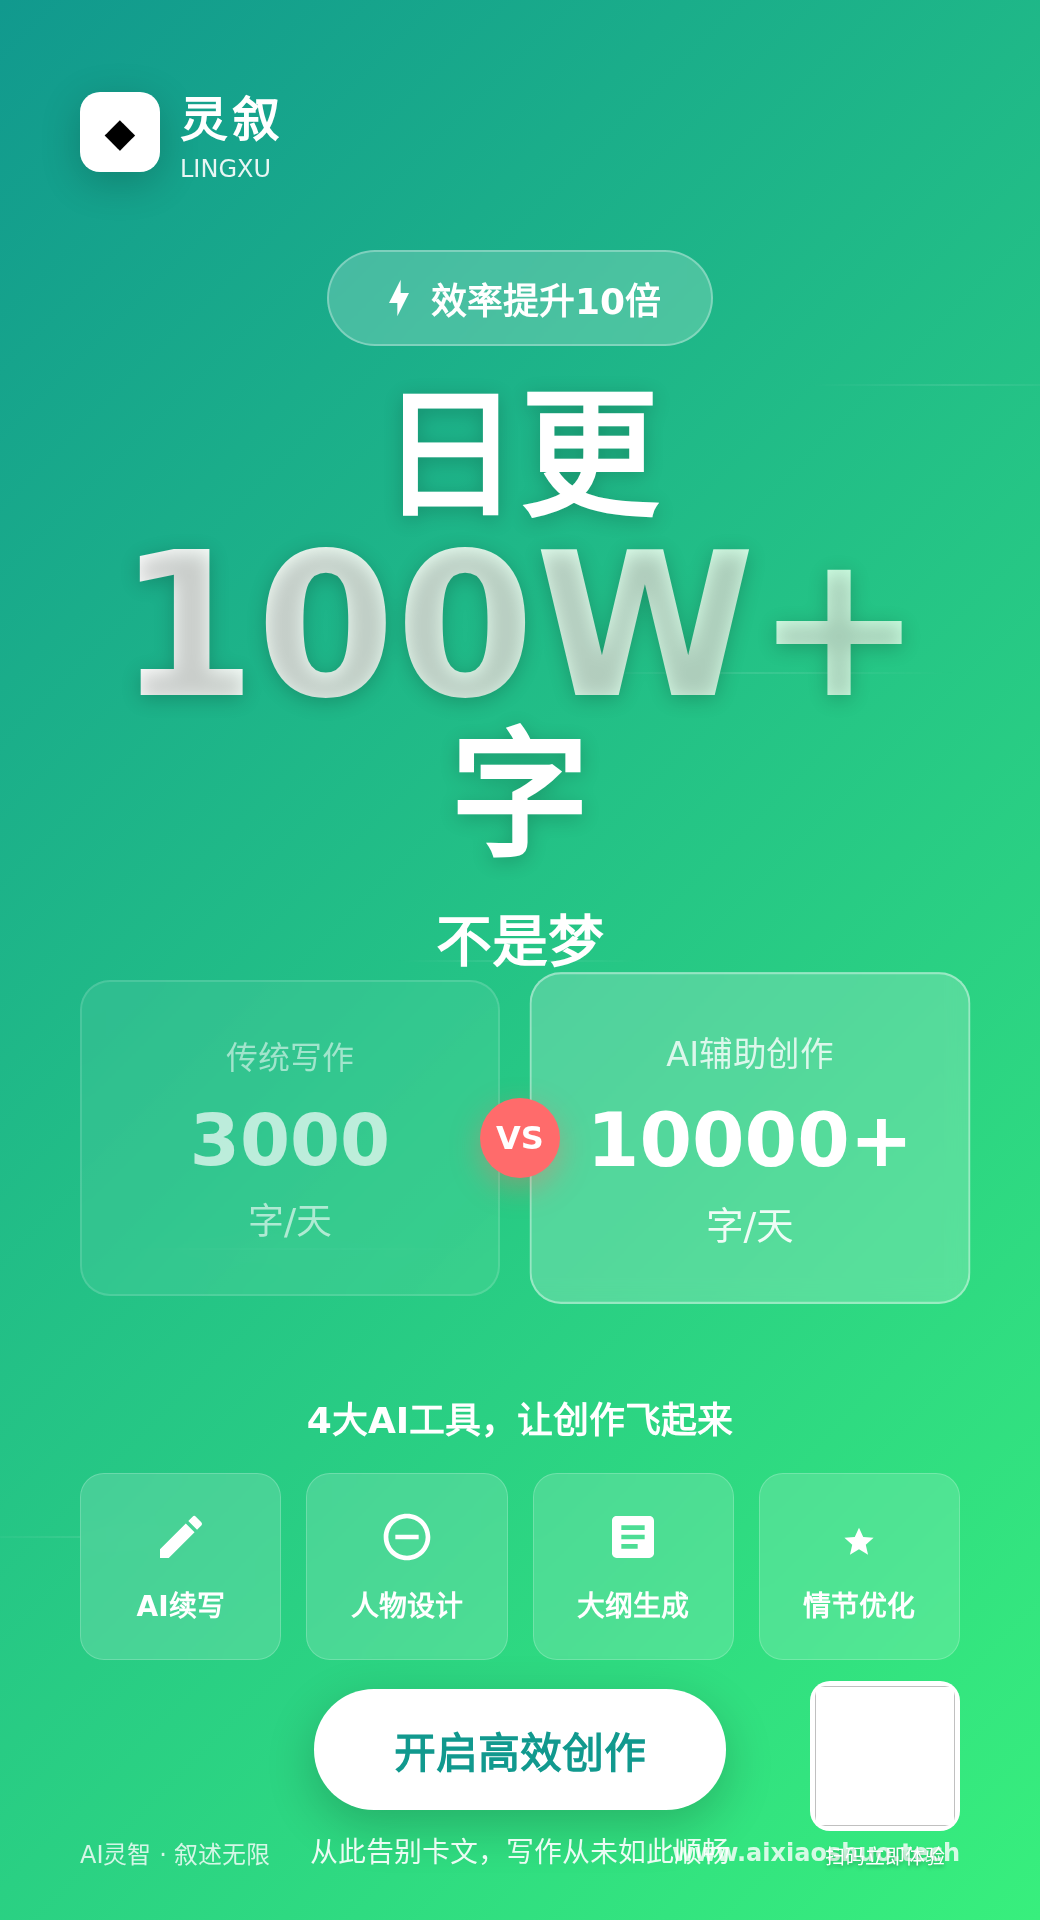
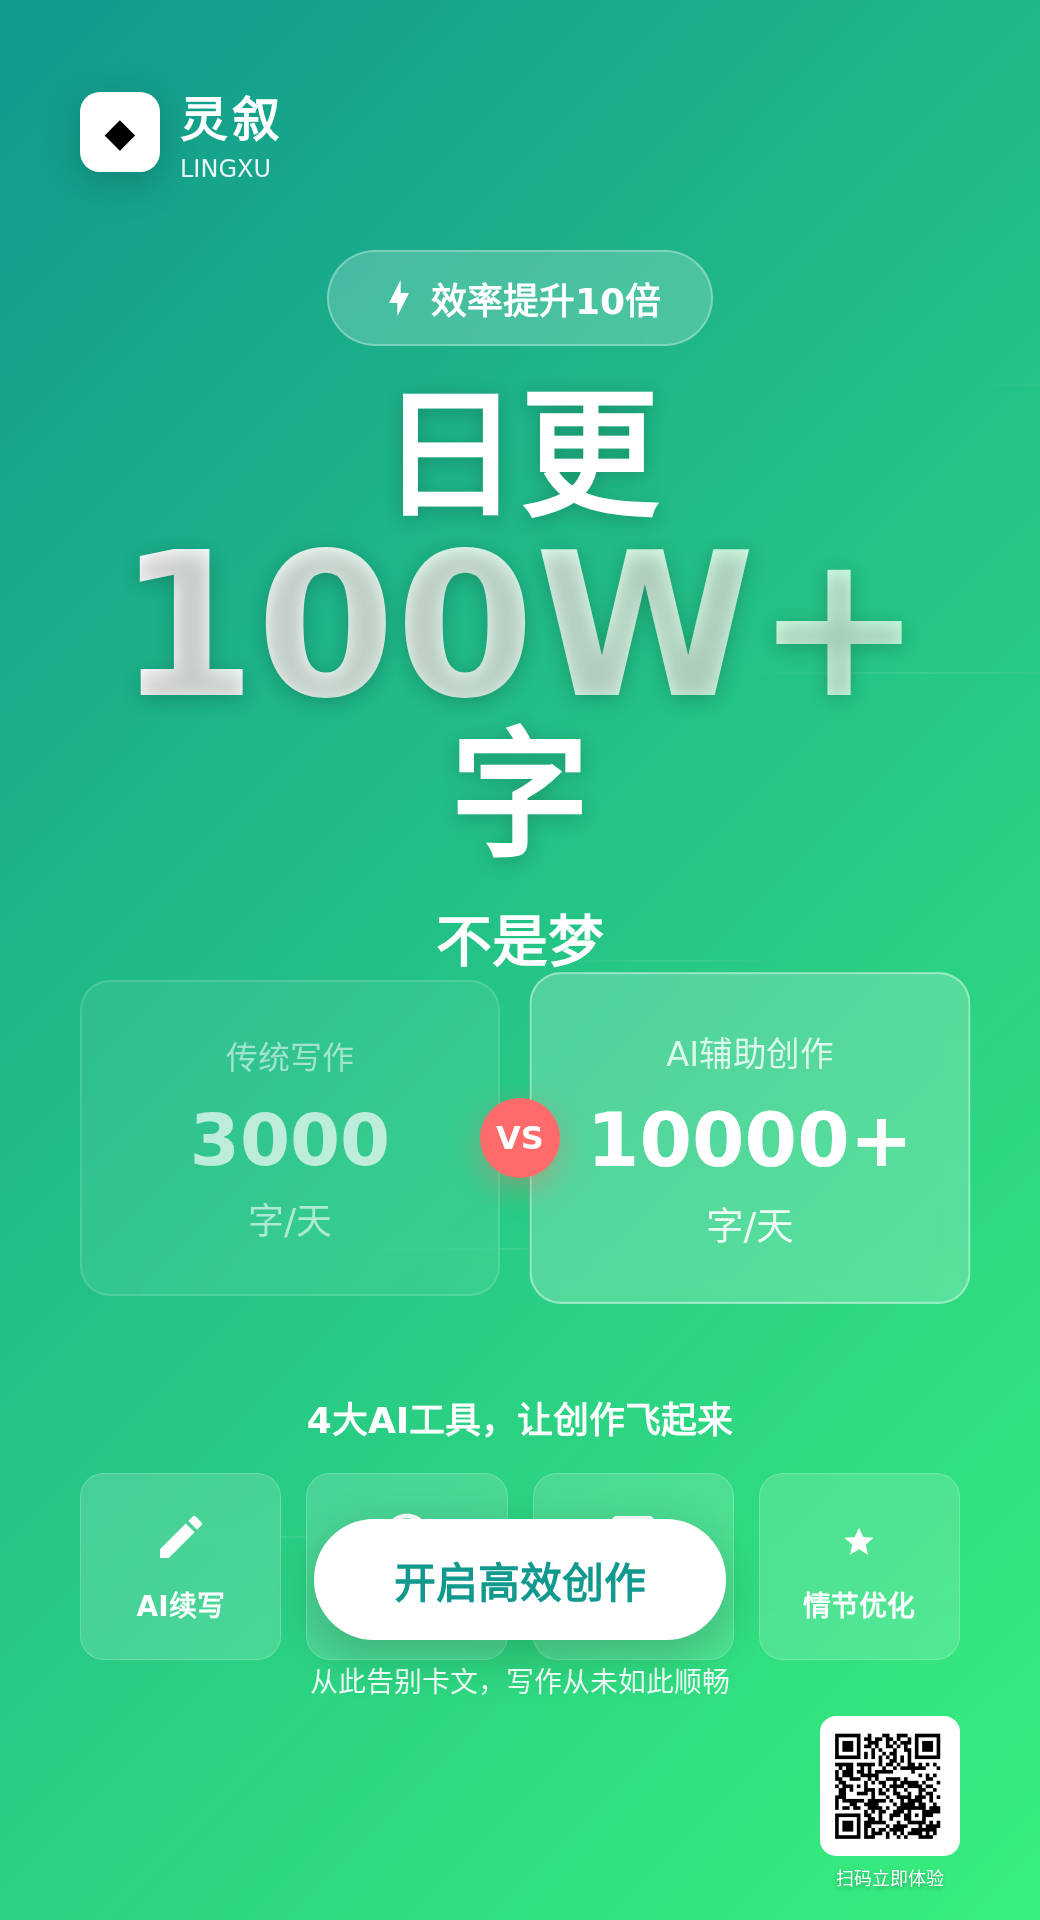
fix(poster): 修复底部布局 - 删除重叠footer，更新二维码路径

Changed region(s): [[0.2769, 0.7812, 0.9231, 1.0], [0.1846, 0.9375, 0.2462, 0.9688], [0.0923, 0.9375, 0.1538, 0.9688]]

diff --git a/assets/posters/poster-2-efficiency.html b/assets/posters/poster-2-efficiency.html
@@ -248,7 +248,7 @@
         
         .cta-section {
             position: absolute;
-            bottom: 50px;
+            bottom: 220px;
             left: 80px;
             right: 80px;
             text-align: center;
@@ -275,18 +275,42 @@
         
         .footer {
             position: absolute;
-            bottom: 50px;
+            bottom: 40px;
             left: 80px;
-            right: 80px;
-            display: flex;
-            justify-content: space-between;
-            align-items: center;
             color: rgba(255,255,255,0.8);
             font-size: 24px;
         }
         
-        .website {
-            font-weight: 600;
+        .qrcode-section {
+            position: absolute;
+            bottom: 30px;
+            right: 80px;
+            text-align: center;
+        }
+        
+        .qrcode-box {
+            width: 140px;
+            height: 140px;
+            background: white;
+            border-radius: 16px;
+            display: flex;
+            align-items: center;
+            justify-content: center;
+            overflow: hidden;
+            margin: 0 auto;
+        }
+        
+        .qrcode-box img {
+            width: 130px;
+            height: 130px;
+            border-radius: 8px;
+        }
+        
+        .qrcode-text {
+            color: white;
+            font-size: 18px;
+            margin-top: 8px;
+            text-shadow: 0 2px 4px rgba(0,0,0,0.3);
         }
     </style>
 </head>
@@ -362,14 +386,10 @@
             <div class="cta-subtext">从此告别卡文，写作从未如此顺畅</div>
         </div>
         
-        <div class="footer">
-            <div>AI灵智 · 叙述无限</div>
-            <div class="website">www.aixiaoshuo.tech</div>
-        </div>
-        
-        <div style="position: absolute; bottom: 50px; right: 80px; text-align: center;">
-            <div style="width: 150px; height: 150px; background: white; border-radius: 20px; display: flex; align-items: center; justify-content: center; overflow: hidden;"><img src="qrcode.jpg" width="140" height="140" style="border-radius: 10px;"></div>
-            <div style="color: white; font-size: 20px; margin-top: 10px; text-shadow: 0 2px 4px rgba(0,0,0,0.3);">扫码立即体验</div>
+
+        <div class="qrcode-section">
+            <div class="qrcode-box"><img src="https://raw.githubusercontent.com/yanghq168/jorge-ai-repository/main/assets/posters/qrcode.jpg" alt="二维码"></div>
+            <div class="qrcode-text">扫码立即体验</div>
         </div>
     </div>
 </body>
